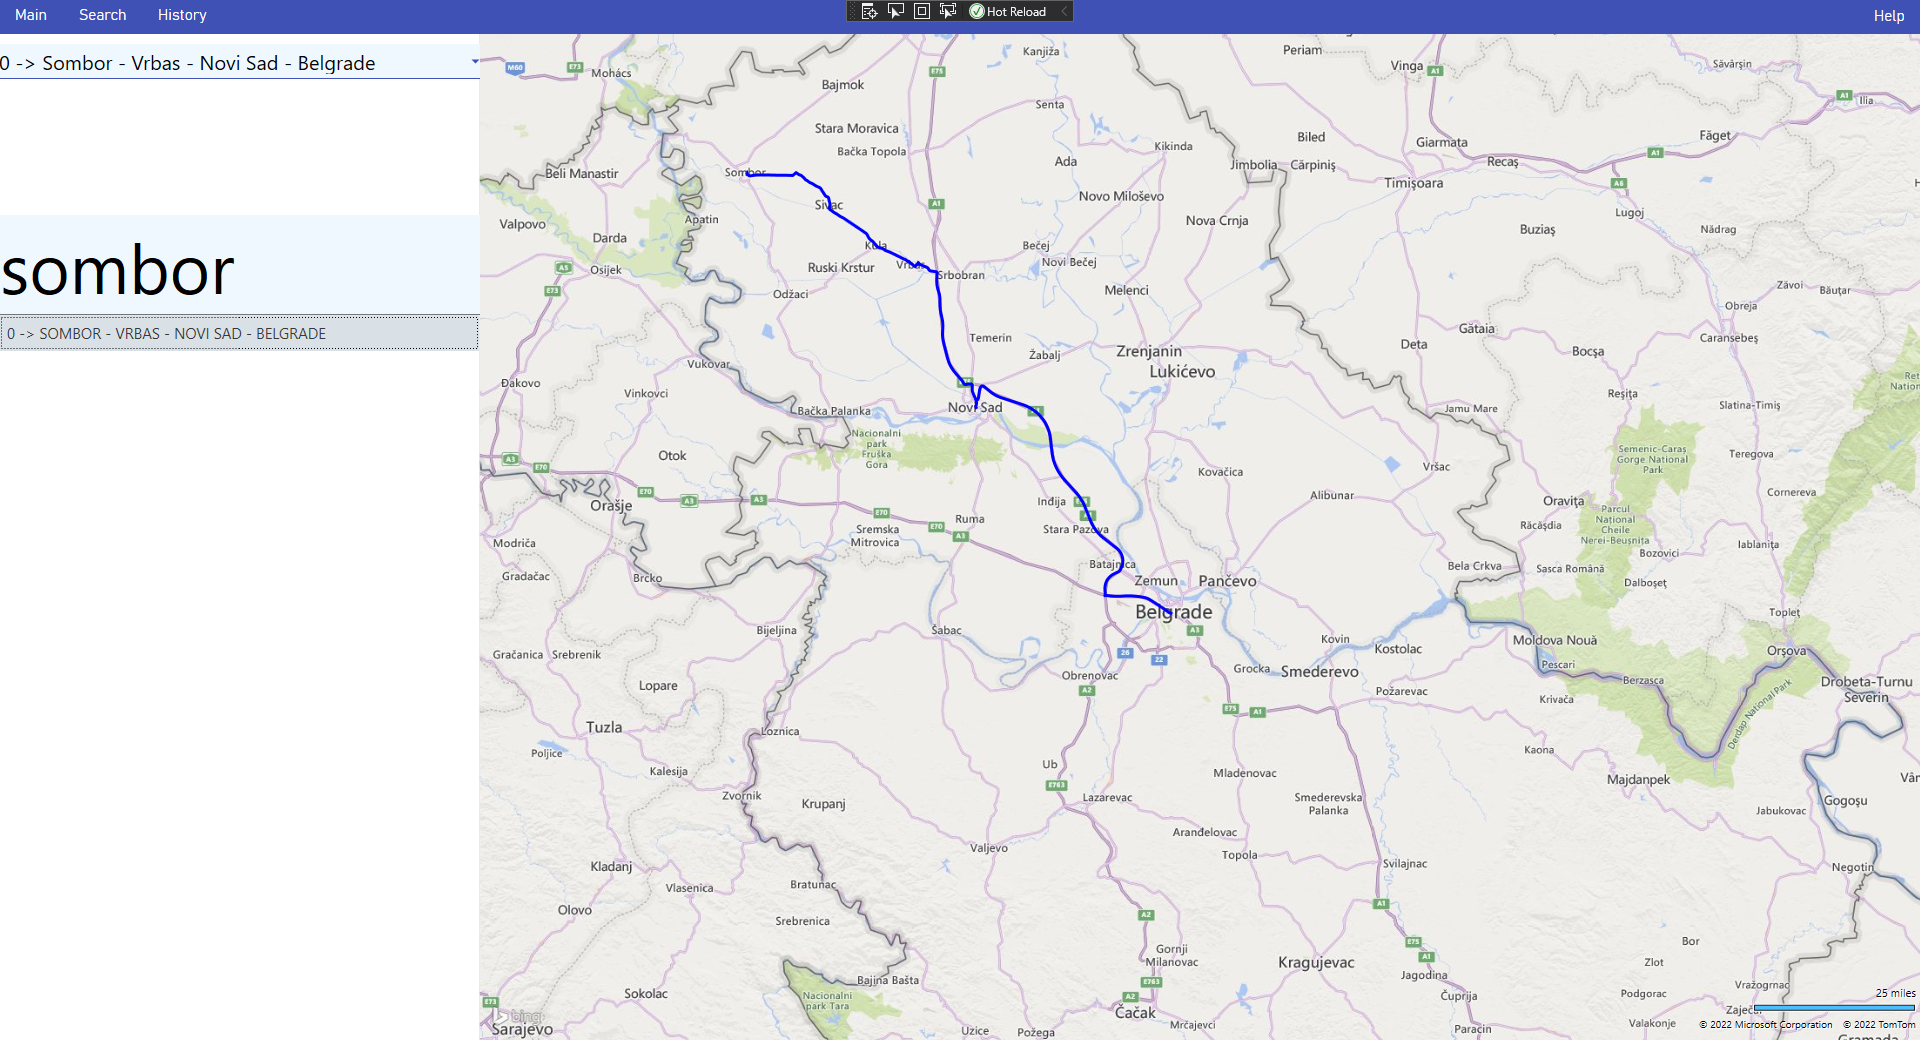
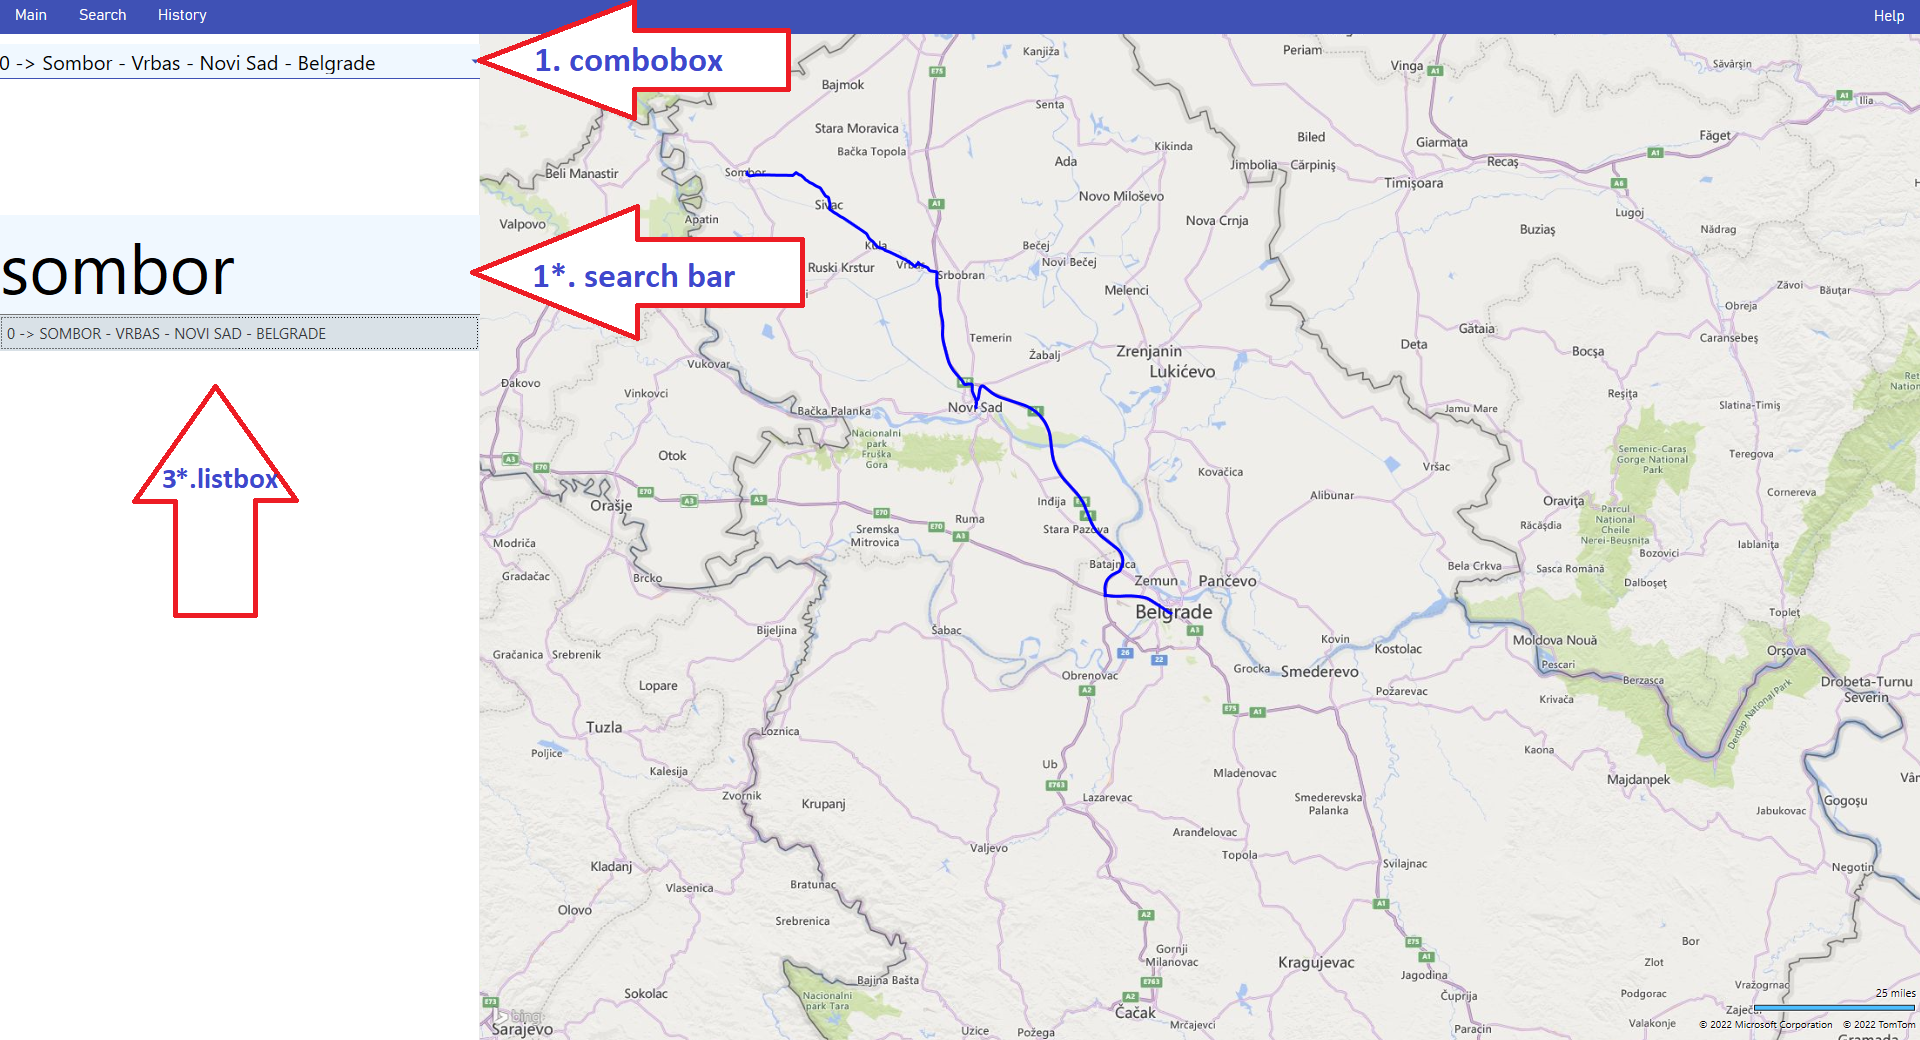
Sitne promene za search i help

diff --git a/HCI_Project/clientPages/SearchPage.xaml b/HCI_Project/clientPages/SearchPage.xaml
@@ -17,18 +17,16 @@
     
     <Grid>
         <Grid.RowDefinitions>
-            <RowDefinition Height="2*"/>
-            <RowDefinition Height="2*"/>
-            <RowDefinition Height="3*"/>
-            <RowDefinition Height="2*"/>
+            <RowDefinition Height="20"/>
             <RowDefinition Height="2*"/>
             <RowDefinition Height="3*"/>
             <RowDefinition Height="2*"/>
             <RowDefinition Height="2*"/>
             <RowDefinition Height="3*"/>
-            <RowDefinition Height="4*"/>
-            <RowDefinition Height="3*"/>
-            <RowDefinition Height="10*"/>
+            <RowDefinition Height="2*"/>
+            <RowDefinition Height="20*"/>
+            <RowDefinition Height="60"/>
+            <RowDefinition Height="20"/>
         </Grid.RowDefinitions>
         <Grid.ColumnDefinitions>
             <ColumnDefinition Width="*"/>
@@ -54,20 +52,15 @@
         </Grid>
 
         <!-- Date -->
-        <Viewbox Grid.Row="7" HorizontalAlignment="Left" Margin="10 0">
-            <TextBlock Text="date" Foreground="Gray"/>
-        </Viewbox>
-        <Viewbox Grid.Row="8" HorizontalAlignment="Left" Margin="10 0">
-            <DatePicker x:Name="DP" SelectedDate="{x:Static sys:DateTime.Now}" DisplayDateStart="1/01/22" FirstDayOfWeek="Monday"/>
+        <Viewbox Grid.Row="7" Margin="10 0 0 5" HorizontalAlignment="Center">
+            <Calendar x:Name="DP" SelectedDate="{x:Static sys:DateTime.Now}" DisplayDateStart="1/01/22" FirstDayOfWeek="Monday"/>
         </Viewbox>
 
         <!-- Button -->
-        <Viewbox Grid.Row="10" Margin="50 0">
-            
-        <Button Click="SearchClick" Content="Search" IsDefault="True" 
-                Style="{StaticResource MaterialDesignFlatMidBgButton}" Foreground="White" materialDesign:ButtonAssist.CornerRadius="5" RenderTransformOrigin="0.562,0.562"/>
 
-        </Viewbox>
+        <Button Click="SearchClick" Content="Search" IsDefault="True" FontSize="35" Height="50" Grid.Row="8"
+                Style="{StaticResource MaterialDesignFlatMidBgButton}"  Foreground="White" materialDesign:ButtonAssist.CornerRadius="5" RenderTransformOrigin="0.562,0.562"/>
+        
         <TextBlock Grid.Column="1" Grid.RowSpan="2" HorizontalAlignment="Center" Text="Departure → Destination" Foreground="Gray" FontSize="30" Margin="0 10"/>
         
         

diff --git a/HCI_Project/help/client.html b/HCI_Project/help/client.html
@@ -25,6 +25,13 @@
         tr:nth-child(even) {
             background-color: #dddddd;
         }
+        img {
+            max-width: 100%;
+            max-height: 100vh;
+            height: auto;
+            border:solid;
+            border-color:cornflowerblue;
+        }
     </style>
 </head>
 
@@ -76,7 +83,7 @@
                 By clicking on the <i>Search</i> button, you will be shown in the main table the results of your previous requests.
             </li>
         </ol>
-        <img src="../help/clientHelpImages/SearchTrainTable.png" width="300" height="200" />
+        <img src="clientHelpImages/searchtraintable.png"/>
     </div>
 
     <h1 id="search_trainline">How to search a train line</h1>
@@ -109,7 +116,7 @@
                 Select the desired train line, and it will be shown to you on the map
             </li>
         </ol>
-        <img src="../help/clientHelpImages/SearchTrainLine1.png" />
+        <img src="clientHelpImages/searchtrainline1.png" />
     </div>
 
 </body>

diff --git a/HCI_Project/clientPages/ClientPage.xaml b/HCI_Project/clientPages/ClientPage.xaml
@@ -9,7 +9,6 @@
       mc:Ignorable="d" 
       d:DesignHeight="450" d:DesignWidth="800"
       Title="ClientPage">
-
     <Page.CommandBindings>
         <CommandBinding Command="cmd:RoutedCommands.FormatClientHelp" CanExecute="ClientHelp_CanExecute" Executed="ClientHelp_Executed"></CommandBinding>
         <CommandBinding Command="cmd:RoutedCommands.FormatSearchTrainLine" CanExecute="SearchTrainLine_CanExecute" Executed="SearchTrainLine_Executed"></CommandBinding>

diff --git a/HCI_Project/utils/TTT_DTO.cs b/HCI_Project/utils/TTT_DTO.cs
@@ -12,7 +12,7 @@ namespace HCI_Project.utils
         public DateTime Departure { get; private set; }
         public DateTime Arrival { get; private set; }
         public string Line { get; private set; }
-        public TimeSpan Time { get; private set; }
+        //public TimeSpan Time { get; private set; }
 
         public TTT_DTO(DateTime departureTime, DateTime arrivalTime, String trainLine)
         {
@@ -20,14 +20,14 @@ namespace HCI_Project.utils
             Departure = departureTime;
             Arrival = arrivalTime;
             Line = trainLine;
-            Time = arrivalTime - departureTime;
+            //Time = arrivalTime - departureTime;
         }
         public TTT_DTO(TrainTimeTable trainTimeTable)
         {
             //ID = trainTimeTable.ID;
             Departure = trainTimeTable.DepartureTime;
             Arrival = trainTimeTable.ArrivalTime;
-            Time = trainTimeTable.TravelTime;
+            //Time = trainTimeTable.TravelTime;
             Line = trainTimeTable.TrainLine.stationsToString();
         }
     }
